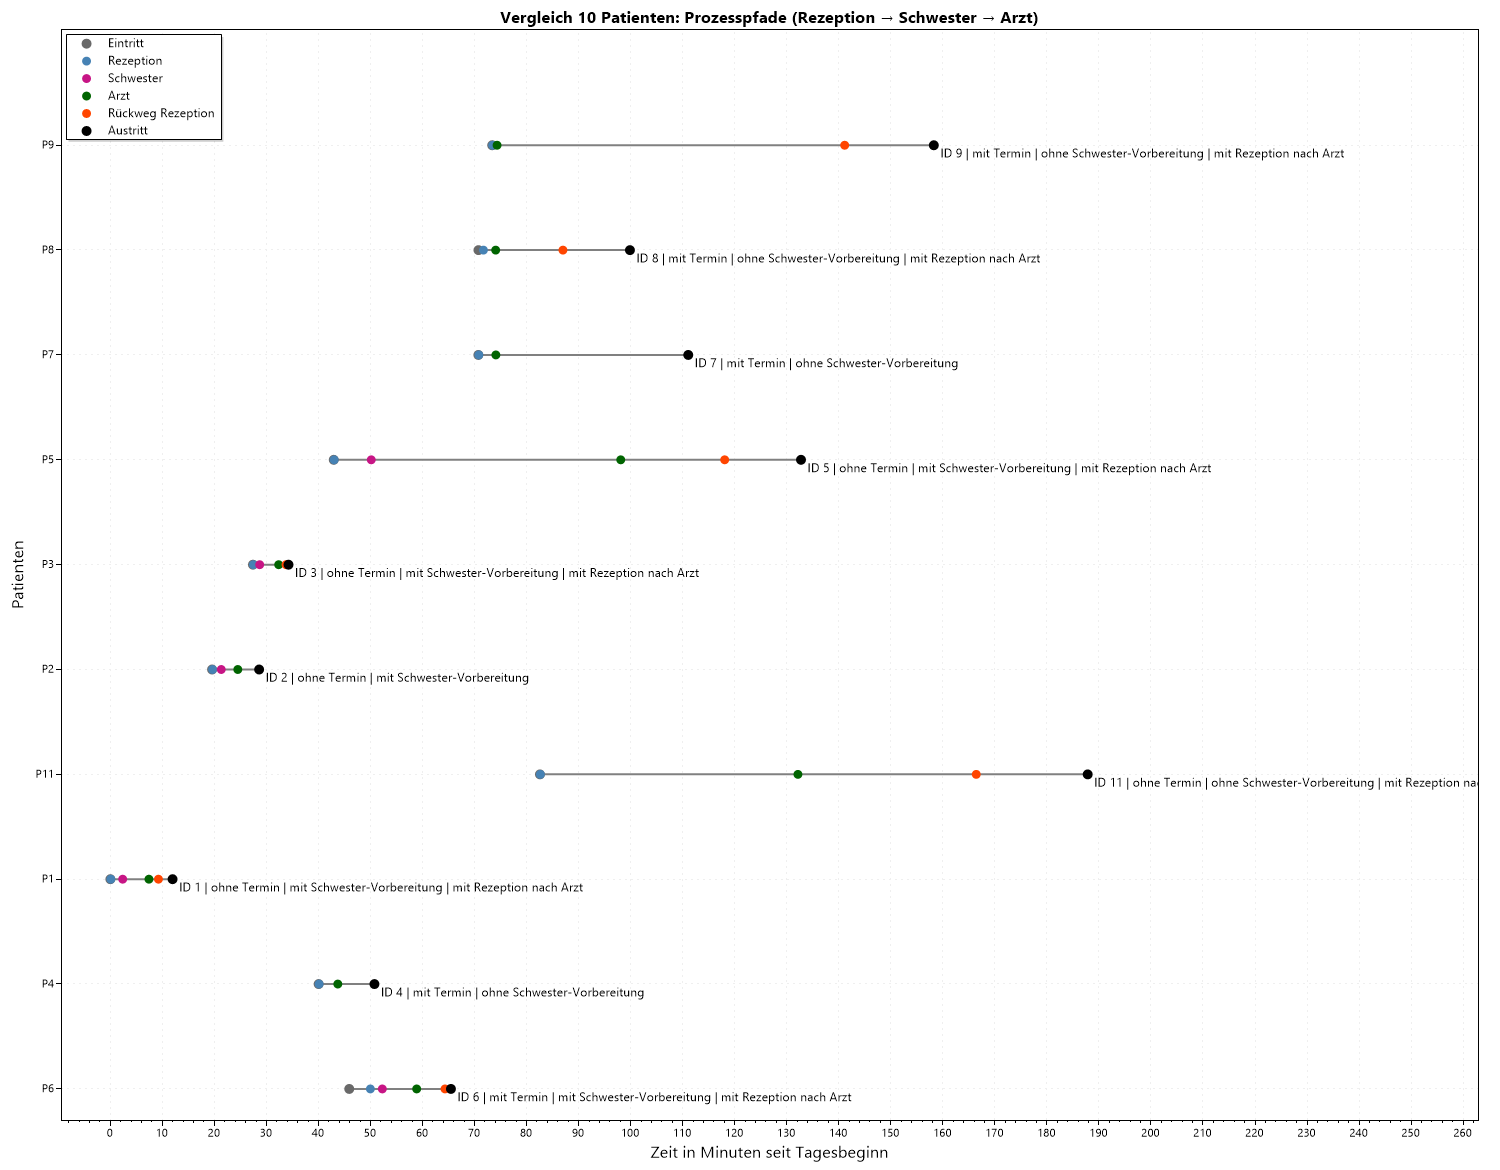
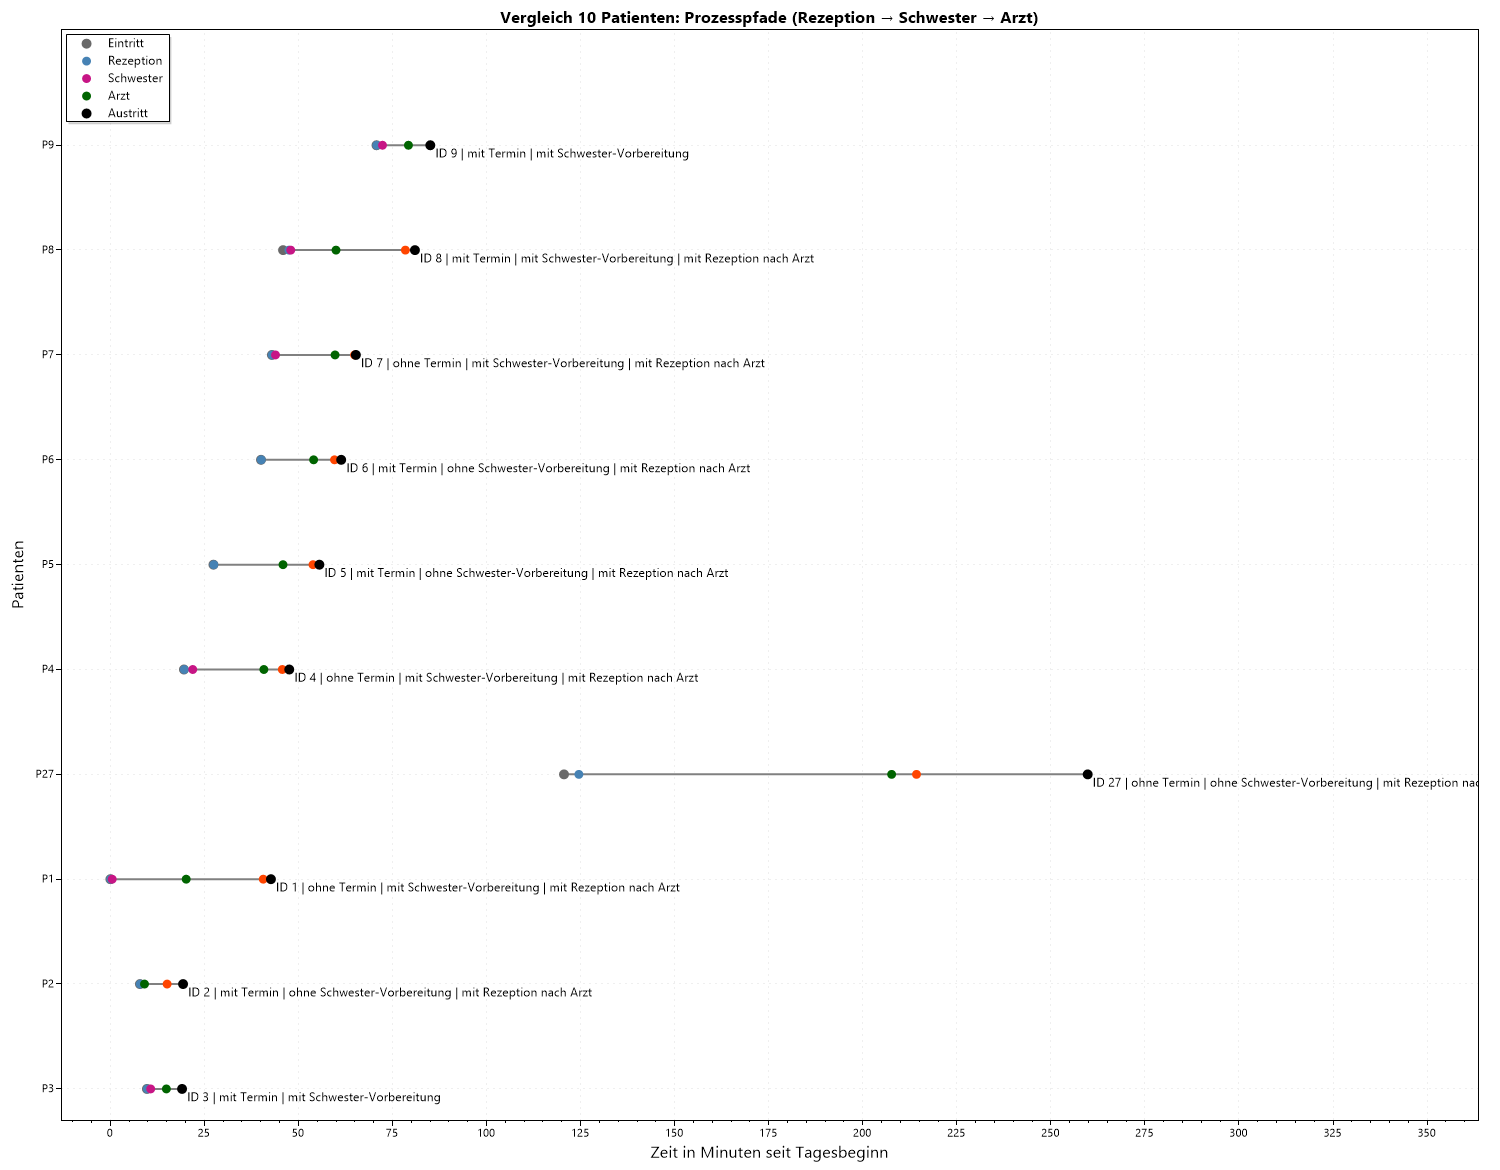
patienten_miss_zeitachse

diff --git a/simSharpSimulation/Diagramm/patienten_vergleich_zeitachse.cs b/simSharpSimulation/Diagramm/patienten_vergleich_zeitachse.cs
@@ -18,12 +18,12 @@ namespace simSharpSimulation
             foreach (string line in traceData)
             {
                 string[] parts = line.Split(';');
-                if (parts.Length < 3)
+                if (parts.Length < 5)
                     continue;
 
                 if (!double.TryParse(parts[0], System.Globalization.NumberStyles.Float, System.Globalization.CultureInfo.InvariantCulture, out double zeit))
                     continue;
-                if (!int.TryParse(parts[2], out int patientId))
+                if (!int.TryParse(parts[4], out int patientId))
                     continue;
 
                 events.Add((zeit, parts[1], patientId));

diff --git a/simSharpSimulation/Diagramm/patienten_zeitachse.cs b/simSharpSimulation/Diagramm/patienten_zeitachse.cs
@@ -15,12 +15,12 @@ namespace simSharpSimulation
             foreach (string line in traceData)
             {
                 string[] parts = line.Split(';');
-                if (parts.Length < 3)
+                if (parts.Length < 5)
                     continue;
 
                 if (!double.TryParse(parts[0], System.Globalization.NumberStyles.Float, System.Globalization.CultureInfo.InvariantCulture, out double zeit))
                     continue;
-                if (!int.TryParse(parts[2], out int patientId))
+                if (!int.TryParse(parts[4], out int patientId))
                     continue;
 
                 events.Add((zeit, parts[1], patientId));

diff --git a/simSharpSimulation/Diagramm/miss_patienten_zeitachse.cs b/simSharpSimulation/Diagramm/miss_patienten_zeitachse.cs
@@ -17,12 +17,12 @@ namespace simSharpSimulation
             foreach (string line in traceData)
             {
                 string[] parts = line.Split(';');
-                if (parts.Length < 3)
+                if (parts.Length < 5)
                     continue;
 
                 if (!double.TryParse(parts[0], NumberStyles.Float, CultureInfo.InvariantCulture, out double zeit))
                     continue;
-                if (!int.TryParse(parts[2], out int patientId))
+                if (!int.TryParse(parts[4], out int patientId))
                     continue;
 
                 events.Add((zeit, parts[1], patientId));
